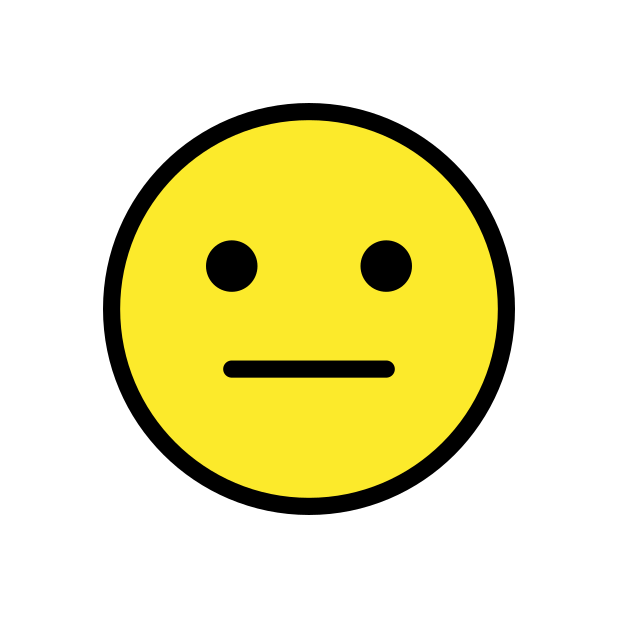
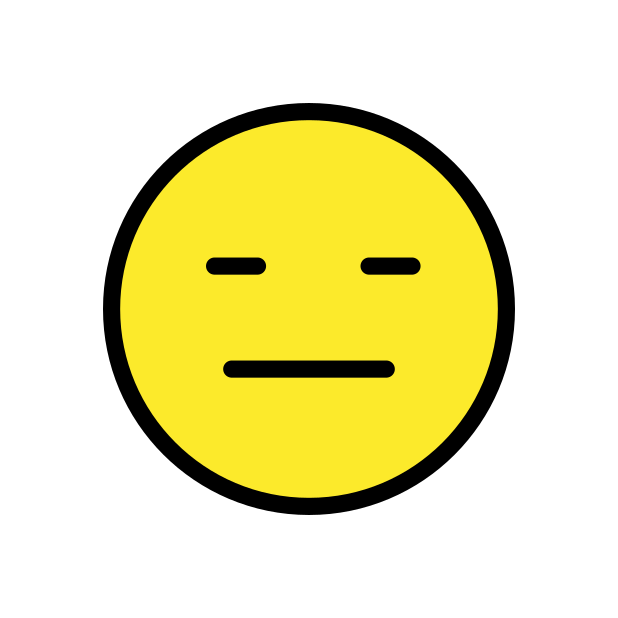
Tightenned images, and changed layout styling

Changed region(s): [[0.5841, 0.3689, 0.6764, 0.4919], [0.3382, 0.3689, 0.4304, 0.4919]]

diff --git a/src/components/BingoSquare.vue b/src/components/BingoSquare.vue
@@ -1,0 +1,84 @@
+<template>
+  <v-card
+    outlined
+    tile
+    elevation="2"
+  >
+  <div class="square-container">
+    <div class="square" v-for="letter in 'B I N G O'.split(' ')" :key="letter">
+      <BingoCell :text="letter"></BingoCell>
+    </div>
+    <div class="square" v-for="row in [1,2,3,4,5]" :key="row">
+      <div class="square" v-for="col in [1,2,3,4,5]" :key="col">
+        <BingoCell class="cell mb-2">
+          <template v-slot:emotion>
+            <v-card-text>
+              <div align="center">
+                <div class="d-none d-md-flex justify-center">
+                  {{ emotion().name }}
+                </div>
+                <v-img
+                  contain
+                  :src=lastEmotion.icon
+                  v-bind:style="{height: size, width: size}"
+                />
+              </div>
+            </v-card-text>
+          </template>
+        </BingoCell>
+      </div>
+    </div>
+  </div>
+  </v-card>
+</template>
+
+<script>
+  import BingoCell from './BingoCell';
+
+  export default {
+    name: 'BingoCard',
+
+    components: {
+      BingoCell
+    },
+    props: [
+      'items'
+    ],
+    data: () => ({
+      lastEmotion: null
+    }),
+    computed: {
+      size() {
+        switch (this.$vuetify.breakpoint.name) {
+          case 'xs':
+          case 'sm':
+            return '20px';
+        }
+
+        return '60px';
+      }
+    },
+    methods: {
+      getRandomItem() {
+        return this.items[Math.floor(Math.random() * this.items.length)];
+      },
+      emotion() {
+        this.lastEmotion = this.getRandomItem();
+        return this.lastEmotion;
+      }
+    }
+  }
+</script>
+<style scoped>
+  .square-container {
+      display: grid;
+      grid-template-columns: repeat(5, 1fr);
+      gap: 1rem;
+      margin: 1rem;
+  }
+
+  .square .cell {
+      height: 100%;
+      width: 100%;
+  }
+</style>

diff --git a/src/components/BingoCard.vue b/src/components/BingoCard.vue
@@ -1,18 +1,25 @@
 <template>
   <v-card
     outlined
+    tile
     elevation="2"
-    class="d-flex flex-1"
+    class=""
+    style="max-width: 200vh"
   >
     <v-container>
-      <v-row>
+      <v-layout nowrap>
+        <v-flex xs2 v-for="letter in 'B I N G O'.split(' ')" v-bind:key="letter">
+          <BingoCell :text="letter"></BingoCell>
+        </v-flex>
+      </v-layout>
+      <!-- <v-row>
         <v-col cols="2" v-for="letter in 'B I N G O'.split(' ')" v-bind:key="letter">
           <BingoCell :text="letter"></BingoCell>
         </v-col>
-      </v-row>
-      <v-layout wrap>
-        <v-flex xs2 v-for="row in [1,2,3,4,5]" :key="row">
-          <v-flex auto v-for="col in [1,2,3,4,5]" :key="col">
+      </v-row> -->
+      <v-layout nowrap>
+        <v-flex xs1 v-for="row in [1,2,3,4,5]" :key="row">
+          <v-flex auto v-for="col in [1,2,3,4,5]" :key="col" v-bind:style="{ width: size }">
             <BingoCell>
               <template v-slot:emotion>
                 <v-card-text>
@@ -21,8 +28,8 @@
                       {{ emotion().name }}
                     </div>
                     <v-img
+                      scale="1"
                       :src=lastEmotion.icon
-                      :width="width"
                     />
                   </div>
                 </v-card-text>
@@ -96,14 +103,14 @@
       lastEmotion: null
     }),
     computed: {
-      width() {
+      size() {
         switch (this.$vuetify.breakpoint.name) {
           case 'xs':
           case 'sm':
-            return 40;
+            return '40px';
         }
 
-        return 100;
+        return '80px';
       }
     },
     methods: {

diff --git a/src/App.vue b/src/App.vue
@@ -40,9 +40,15 @@
         <EmoImages />
       </amplify-authenticator> -->
       <v-container>
-        <v-btn v-on:click="playing = !playing">Play</v-btn>
-        <SpinningWheel v-if="playing" :items="items" />
-        <BingoCard v-if="!playing" :items="items" />
+        <v-btn v-on:click="playing = !playing">Take a Turn</v-btn>
+        <v-slide-y-transition>
+          <v-card-text v-show="playing">
+            <TakeTurn :items="items" />
+          </v-card-text>
+        </v-slide-y-transition>
+        <v-slide-x-transition>
+          <BingoCard v-if="!playing" :items="items" />
+        </v-slide-x-transition>
       </v-container>
     </v-main>
   </v-app>
@@ -52,16 +58,16 @@
 import { onAuthUIStateChange } from '@aws-amplify/ui-components';
 // import NewEntry from './components/NewEntry';
 // import EmoImages from './components/EmoImages';
-import BingoCard from './components/BingoCard';
+import BingoCard from './components/BingoSquare';
+import TakeTurn from './components/TakeTurn';
 // import Spinner from './components/Spinner';
-import SpinningWheel from './components/SpinningWheel';
 
 const EMOTIONS = 'HAPPY|SAD|ANGRY|CONFUSED|DISGUSTED|SURPRISED|CALM|FEAR'.toLowerCase().split('|');
 
 const ITEMS = EMOTIONS.map((value) => {
   return {
-    icon: `/images/emotions/${value}.png`,
-    size: 64,
+    icon: `/images/emotions/${value}-tight.png`,
+    size: 32,
     name: value
   }
 })
@@ -73,7 +79,7 @@ export default {
     // NewEntry,
     // EmoImages,
     BingoCard,
-    SpinningWheel
+    TakeTurn
   },
 
   created() {

diff --git a/src/components/TakeTurn.vue b/src/components/TakeTurn.vue
@@ -1,30 +1,35 @@
 <template>
   <v-card
-    outlined
     elevation="2"
-    class="d-flex flex-1"
+    height="500"
   >
-  <v-card-title>
-    Next Turn
-  </v-card-title>
-  <v-img
-    src="@public/images/selfie.png"
-    height="200"
-  />
-  <v-card-text>
-    Click the spinner to see which emotion you must present.
-  </v-card-text>
-  <v-card-actions>
-    <v-btn>Submit Your Selfie</v-btn>
-  </v-card-actions>
+    <v-card-title>
+      Click the spinner to see which emotion you must present.
+    </v-card-title>
+    <v-card-text>
+      <!-- <v-img
+        contain
+        src="/images/selfie.png"
+        height="200"
+      /> -->
+      <p>
+      </p>
+      <SpinningWheel :items="items" />
+    </v-card-text>
+    <v-card-actions>
+      <v-btn>Submit Your Selfie</v-btn>
+    </v-card-actions>
   </v-card>
 </template>
 
 <script>
+  import SpinningWheel from './SpinningWheel';
+
   export default {
     name: 'TakeTurn',
 
     components: {
+      SpinningWheel
     },
     props: [
       'items'
@@ -33,3 +38,8 @@
     })
   }
 </script>
+<style scoped>
+  .selfie {
+    background-image: url('/images/selfie.png');
+  }
+</style>

diff --git a/src/components/BingoCell.vue b/src/components/BingoCell.vue
@@ -1,6 +1,6 @@
 <template>
-  <v-card class="ma-2">
-    <div v-resize-text="{ratio:2, minFontSize: '40px', maxFontSize: '200px', delay: 200}">
+  <v-card class="ma-0 pa-0" style="margin: 0">
+    <div class="text-center" v-resize-text="{ratio:2, minFontSize: '40px', maxFontSize: '200px', delay: 200}">
       {{ text }}
     </div>
     <slot name="emotion"></slot>

diff --git a/src/components/SpinningWheel.vue b/src/components/SpinningWheel.vue
@@ -1,7 +1,10 @@
 <template>
-   <v-card
+  <v-card
+    elevation="0"
     class="ma-4"
-   >
+    height="310"
+    width="310"
+  >
   <div class="wheel-wrapper">
     <v-btn
       class="wheel-pointer"
